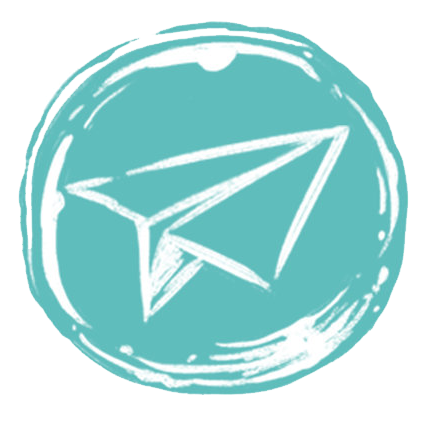
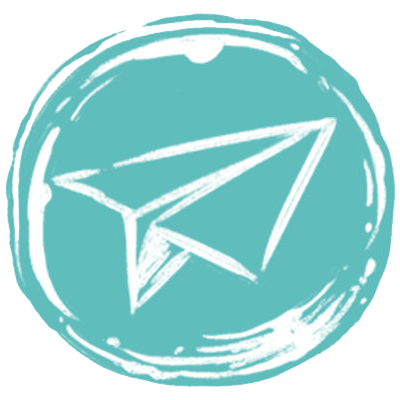
refined images

diff --git a/styles.css b/styles.css
@@ -74,7 +74,7 @@ header > h1 {
     object-fit: fill;
     border: 5px solid white;
     border-radius: 50%;
-    padding: 2px;
+    padding: 10px;
     margin: 0 10px;
     display: inline-block;
     transition: all 0.4s ease;
